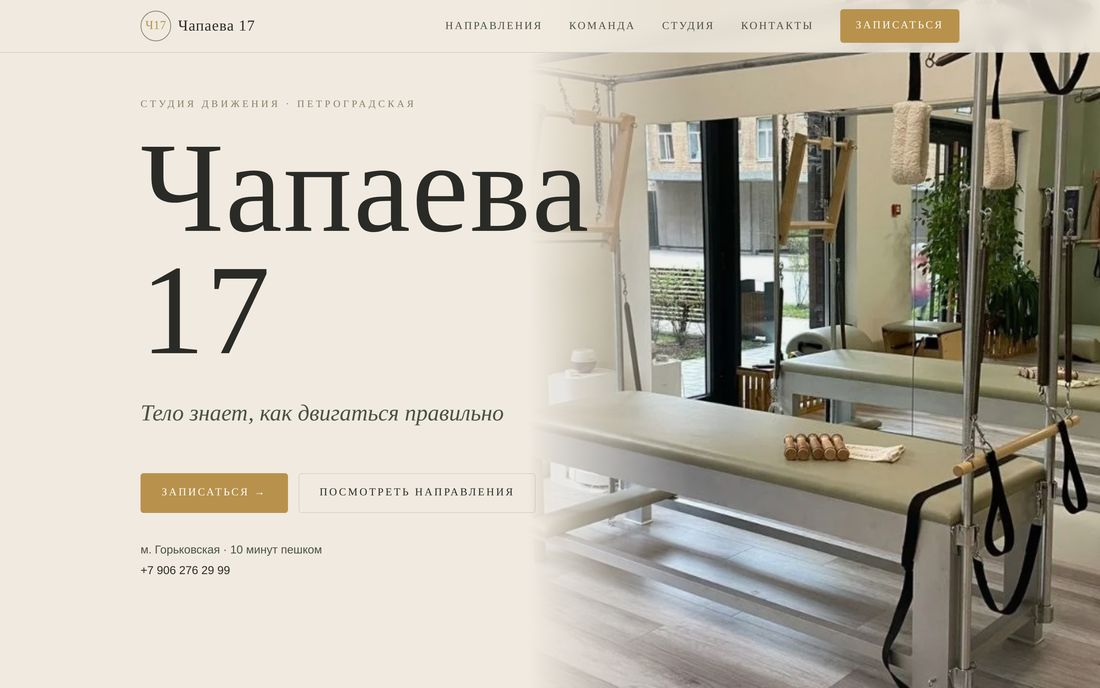
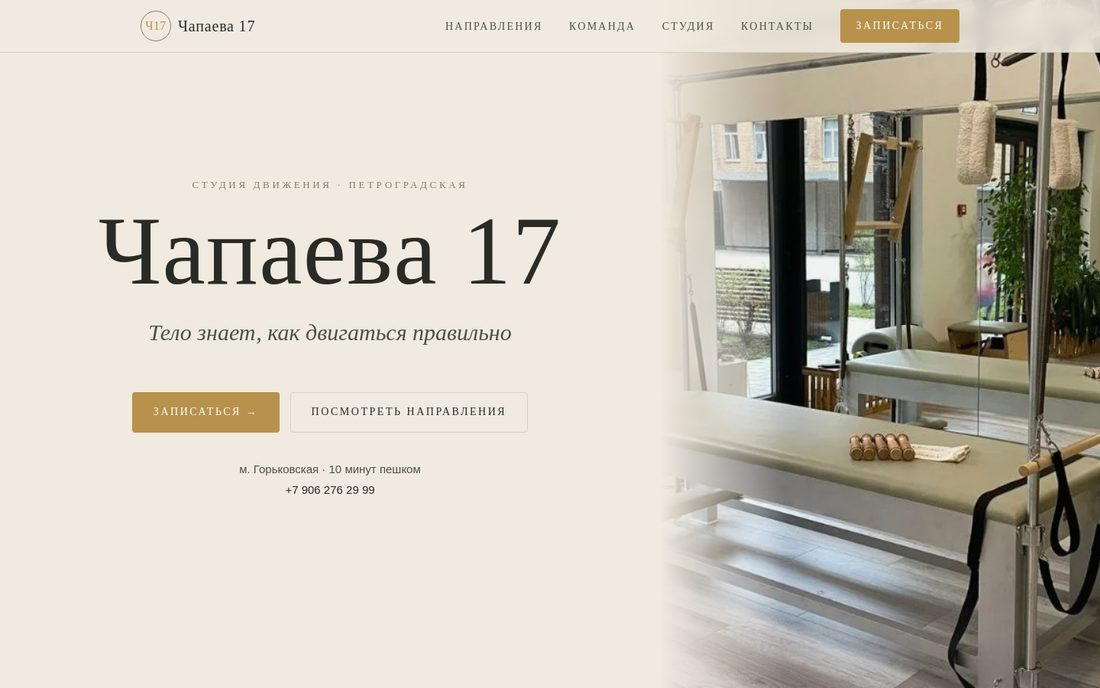
Rebalance hero: 60/40 split, centered text with padding, one-line title

diff --git a/styles.css b/styles.css
@@ -147,27 +147,33 @@ button { font-family: inherit; cursor: pointer; }
    HERO
    ============================================================ */
 .hero { position: relative; min-height: 100svh; max-height: 920px; display: flex; align-items: center; overflow: hidden; }
-.hero-media { position: absolute; inset: 0 0 0 auto; width: 52%; z-index: 0; }
+.hero-media { position: absolute; inset: 0 0 0 auto; width: 40%; z-index: 0; }
 .hero-img { width: 100%; height: 100%; object-fit: cover; }
 .hero-scrim {
   position: absolute; inset: 0;
   background: linear-gradient(90deg, var(--cream) 0%, rgba(240,234,224,0) 28%),
               linear-gradient(0deg, rgba(35,36,31,.18), rgba(35,36,31,0) 30%, rgba(35,36,31,.12));
 }
-.hero-inner { position: relative; z-index: 1; }
-.hero-text { max-width: 620px; }
+.hero-inner {
+  position: relative; z-index: 1;
+  width: 60%; max-width: none; margin: 0;
+  padding: 0 clamp(40px, 6vw, 120px);
+  display: flex; justify-content: center;
+}
+.hero-text { max-width: 820px; text-align: center; }
 .hero-title {
   font-family: var(--serif); font-weight: 300;
-  font-size: clamp(60px, 12vw, 168px); line-height: .95; letter-spacing: .01em;
+  font-size: clamp(56px, 8.8vw, 168px); line-height: .95; letter-spacing: .01em;
   margin: .12em 0 .18em; color: var(--ink);
+  white-space: nowrap;
 }
 .hero-title .ltr { display: inline-block; }
 .hero-slogan {
   font-family: var(--serif); font-style: italic; font-weight: 300;
   font-size: clamp(19px, 2.6vw, 30px); color: var(--ink-soft); margin: 0 0 1.8em;
 }
-.hero-actions { display: flex; flex-wrap: wrap; gap: 14px; margin-bottom: 2.4em; }
-.hero-meta { display: flex; flex-direction: column; gap: .2em; font-size: 15px; color: var(--ink-soft); }
+.hero-actions { display: flex; flex-wrap: wrap; justify-content: center; gap: 14px; margin-bottom: 2.4em; }
+.hero-meta { display: flex; flex-direction: column; align-items: center; gap: .2em; font-size: 15px; color: var(--ink-soft); }
 .hero-meta a { color: var(--ink); }
 .hero-meta a:hover { color: var(--gold); }
 
@@ -380,7 +386,11 @@ button { font-family: inherit; cursor: pointer; }
   .nav-cta { display: inline-flex; margin-top: 8px; }
 
   .hero { flex-direction: column; align-items: stretch; min-height: auto; max-height: none; padding: 48px 0 56px; }
-  .hero-inner { order: 1; }
+  .hero-inner { order: 1; width: 100%; max-width: var(--container); margin: 0 auto; padding: 0 var(--gutter); display: block; }
+  .hero-text { max-width: none; text-align: left; }
+  .hero-title { white-space: normal; }
+  .hero-actions { justify-content: flex-start; }
+  .hero-meta { align-items: flex-start; }
   .hero-media { position: relative; order: 2; width: 100%; height: 56vw; max-height: 420px; margin-top: 28px; border-radius: var(--radius); overflow: hidden; }
   .hero-scrim { background: linear-gradient(0deg, rgba(35,36,31,.25), rgba(35,36,31,0) 50%); }
 
